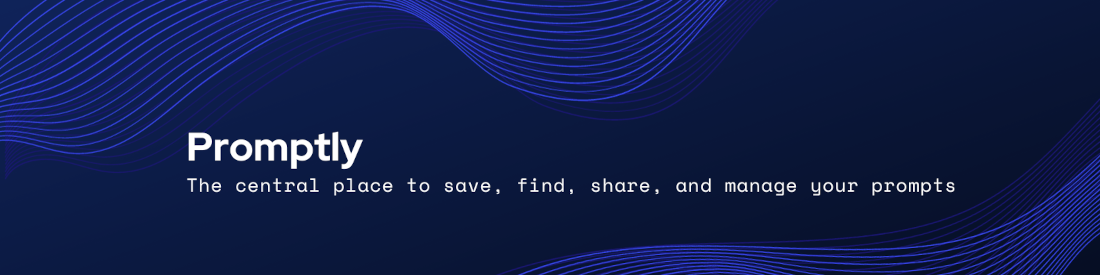
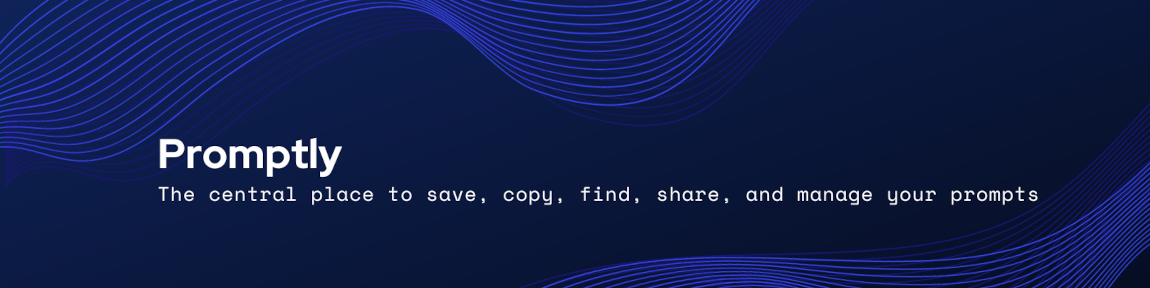
chore(MetaTags.svelte): update image dimensions and alt text for MetaTags component chore(meta_image.png): update meta image to match new dimensions

diff --git a/src/lib/global/components/MetaTags.svelte b/src/lib/global/components/MetaTags.svelte
@@ -9,7 +9,12 @@
 	export let description: string =
 		'Promptly allows you to seamlessly save, copy, find, share, and manage your artificial intelligence (AI) prompts. Our powerful features help you optimize and organize prompts for Chat GPT, Bing, MidJourney,Stable Diffusion, or any other AI tool you use.';
 
-	export let image = { src: '/meta_image.png', alt: 'promptly Icon', width: '1100', height: '275' };
+	export let image = {
+		src: '/meta_image.png',
+		alt: 'promptly site info',
+		width: '1150',
+		height: '288'
+	};
 
 	const imageURL = $page.url.origin + image.src;
 
